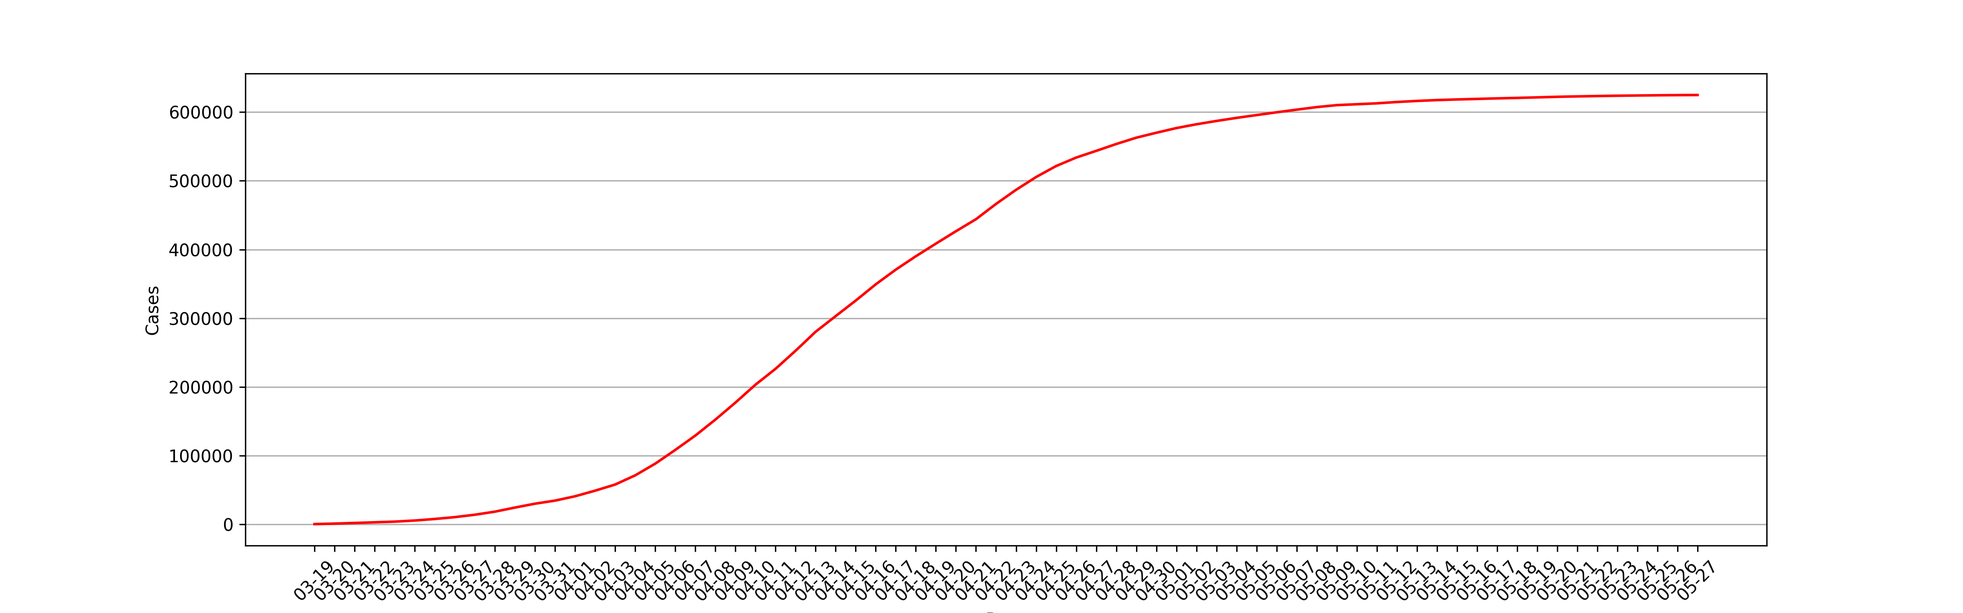
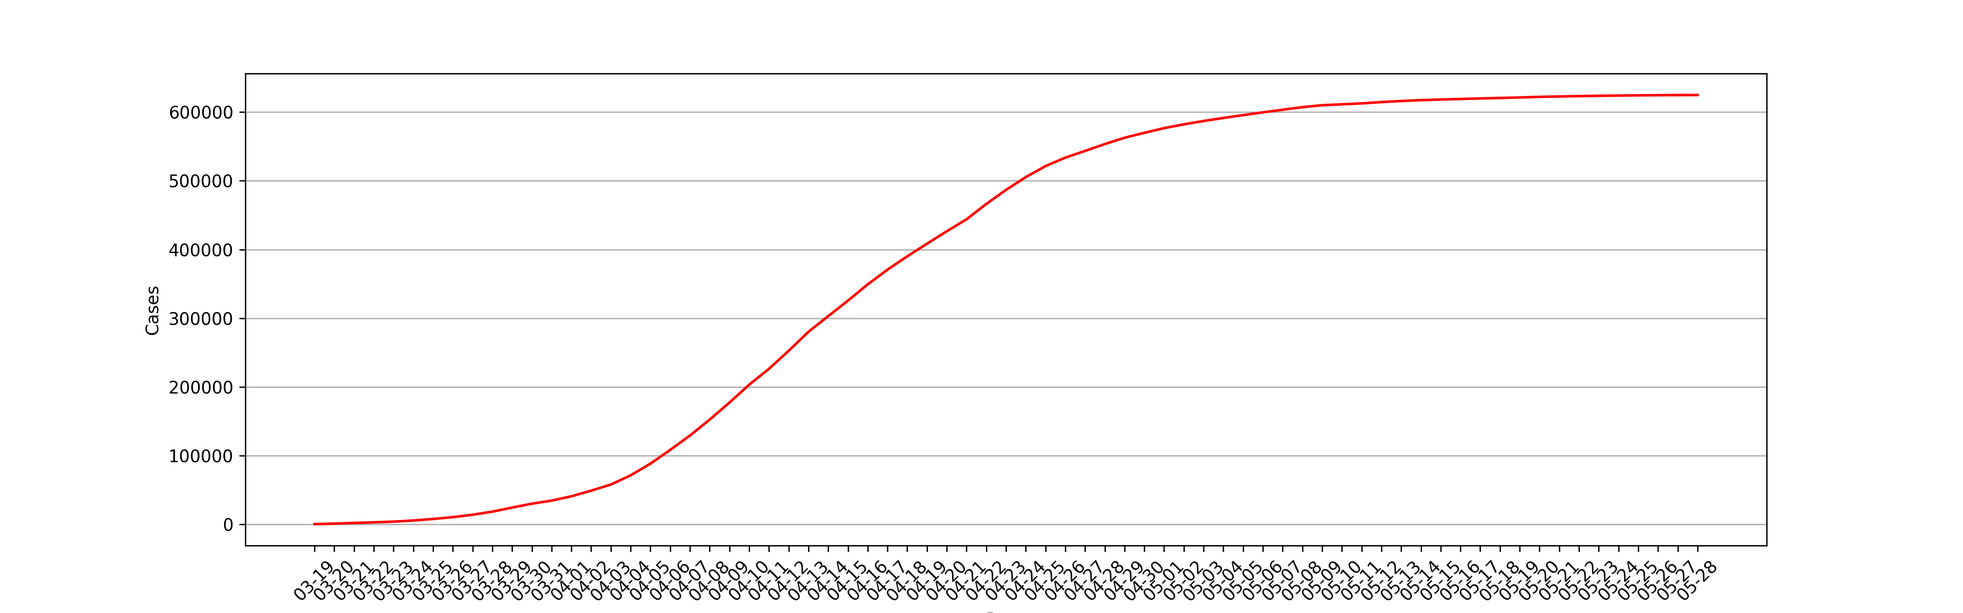
Commit by github action

diff --git a/archived_html/b744fb8257a08314cf1bda528345cac7.html b/archived_html/b744fb8257a08314cf1bda528345cac7.html
@@ -1,0 +1,151 @@
+<!DOCTYPE html>
+<html lang="zh-Hans">
+<head>
+    <meta charset="utf-8">
+    <meta http-equiv="Content-Security-Policy" content="upgrade-insecure-requests">
+    <meta name="viewport" content="width=device-width, initial-scale=1, maximum-scale=1, user-scalable=no">
+    <meta http-equiv="X-UA-Compatible" content="IE=Edge,chrome=1">
+    <meta http-equiv="Cache-Control" content="no-siteapp" />
+    <meta name="renderer" content="webkit">
+    <meta name="apple-mobile-web-app-capable" content="yes" />
+    <meta name="apple-mobile-web-app-status-bar-style" content="black" />
+    <title>上海2022年5月28日，新增本土新冠肺炎确诊病例29例 新增本土无症状感染者93例 新增境外输入性新冠肺炎确诊病例3例 新增境外输入性无症状感染者3例__上海市卫生健康委员会</title>
+    <meta name="ColumnDescription" content="新闻发布"><!-- * -->
+    <meta name="ColumnKeywords" content="新闻发布"><!-- * -->
+    <!--<meta name="ColumnType" content=""> * -->
+    <meta name="ColumnName" content="新闻发布"><!-- * -->
+    <meta name="ArticleTitle" content="上海2022年5月28日，新增本土新冠肺炎确诊病例29例 新增本土无症状感染者93例 新增境外输入性新冠肺炎确诊病例3例 新增境外输入性无症状感染者3例"><!-- * -->
+    <meta name="PubDate" content="2022-05-29"><!-- * -->
+    <meta name="ContentSource" content="上海市卫生健康委员会"><!-- * -->
+    <meta name="Author" content="上海市卫生健康委员会">
+    <meta name="Description" content="" />
+    <meta name="applicable-device" content="pc;mobile">
+    <meta name="location" content="北纬N31°11′51.89″ 东经E121°30′5.42″">
+    <!-- min CSS -->
+    <link rel="stylesheet" href="/assets/css/ETUI/ETUI3.min.css">
+    <!-- Custom CSS -->
+    <link rel="stylesheet" href="/assets/plugin/owl/owl.carousel.css">
+    <link rel="stylesheet" href="/assets/css/style.css">
+    <link rel="stylesheet" href="/assets/css/responsive.css">
+    <link rel="stylesheet" href="/assets/css/ETUI/ETUI3.Utility.css">
+    <!-- icons -->
+    <link rel="shortcut icon" href="/assets/img/ico/favicon.png">
+    <!-- 无障碍工具条 -->
+   <!-- <link rel="stylesheet" href="http://www.shanghai.gov.cn/jhelper_V2.0/jhelper_tool_style.css">
+    <script src="http://www.shanghai.gov.cn/jhelper_V2.0/wsj/jhelper_config.js" charset="gb2312"></script>
+    <noscript>不能读取工具条配置</noscript>
+    <script src="http://www.shanghai.gov.cn/jhelper_V2.0/jhelper_2.0.js" charset="gb2312"></script>
+    <noscript>不能读取工具条</noscript> 
+     -->
+    <script type="text/javascript">
+        function onsubmmit(pageIndex){
+            $("#pageIndex").val(1);
+            $("#searchField").val("0");
+            $("#timeScope").val("0");
+            $("#cmsSearchId").val("0");
+            $("#searchForm").submit();
+        }
+        function onselsubmmit(){
+            $("#pageIndex").val(1);
+            $("#searchForm").submit();
+        }
+        function psubmmit(pageIndex){
+            $("#pageIndex").val(pageIndex);
+            $("#searchForm").submit();
+        }
+        // 栏目
+        function chsubmmit(searchChId){
+            $("#pageIndex").val(1);
+            $("#searchField").val("0");
+            $("#timeScope").val("0");
+            $("#cmsSearchId").val(searchChId);
+            $("#searchForm").submit();
+        }
+    </script> 
+    <!-- 无障碍工具条 -->
+</head>
+<body>
+    <div id="accessNull"></div>
+    <div id="container">
+        <div class="channelinfo hidden"></div>
+        <script src="/assets/js/header.js"></script>
+        <div class="main" id="main">
+            <script src="/assets/js/jiansuo.js"></script>
+            <div class="main-container margin-top-15">
+                <div class="container ">
+                    <div class="relitive">
+                        <ol class="breadcrumb">
+                           <span>您现在所在的位置：</span>
+                            <li><a href="/index.html">首页</a></li>
+                            <li class="active">新闻中心</li>
+                           
+                            <li class="active">新闻发布</li>
+                           
+                        </ol>
+                        <div class="date-se">
+                            <i class="iconfont">&#xe60b;</i> <span id="time"></span>
+                        </div>
+                    </div>
+
+                    <div class="Article">
+                        <h2 id="ivs_title" class="Article-title">上海2022年5月28日，新增本土新冠肺炎确诊病例29例 新增本土无症状感染者93例 新增境外输入性新冠肺炎确诊病例3例 新增境外输入性无症状感染者3例</br>
+                         <h2 class="Article-title">
+                            <small id="ivs_date" class="Article-time">( 2022-05-29)</small>
+                        </h2>
+                        <div id="ivs_player" style="text-align:center;"></div>
+                        <div id="ivs_content" class="Article_content">
+                           
+                                 <p style="font-size: medium;white-space: normal;margin-top: 10px;text-indent: 40px"><span style="font-size: 20px;font-family: 仿宋_GB2312">市卫健委今早（29日）通报：2022年5月28日0—24时，新增本土新冠肺炎确诊病例29例和无症状感染者93例，其中18例确诊病例为既往无症状感染者转归，10例确诊病例和93例无症状感染者在隔离管控中发现。新增境外输入性新冠肺炎确诊病例3例和无症状感染者3例，均在闭环管控中发现。</span></p><p style="font-size: medium;white-space: normal;margin-top: 10px;text-indent: 40px"><span style="font-size: 20px;font-family: 仿宋_GB2312">2022</span><span style="font-size: 20px;font-family: 仿宋_GB2312">年5月28日0—24时，新增本土新冠肺炎确诊病例29例，含18例由既往无症状感染者转为确诊病例。新增治愈出院114例。</span></p><p style="font-size: medium;white-space: normal;margin-top: 10px;text-indent: 40px"><strong><span style="font-size: 20px;font-family: 黑体">病例1</span></strong><span style="font-size: 20px;font-family: 仿宋_GB2312">，居住于徐汇区，</span><strong><span style="font-size: 20px;font-family: 黑体">病例2</span></strong><span style="font-size: 20px;font-family: 仿宋_GB2312">，居住于长宁区，</span><strong><span style="font-size: 20px;font-family: 黑体">病例3</span></strong><span style="font-size: 20px;font-family: 仿宋_GB2312">，居住于静安区，</span><strong><span style="font-size: 20px;font-family: 黑体">病例4、病例5</span></strong><span style="font-size: 20px;font-family: 仿宋_GB2312">，居住于虹口区，</span><strong><span style="font-size: 20px;font-family: 黑体">病例6—病例10</span></strong><span style="font-size: 20px;font-family: 仿宋_GB2312">，居住于宝山区，均为本市闭环隔离管控人员，其间新冠病毒核酸检测结果异常，经疾控中心复核结果为阳性。经市级专家会诊，综合流行病学史、临床症状、实验室检测和影像学检查结果等，诊断为确诊病例。</span></p><p style="font-size: medium;white-space: normal;margin-top: 10px;text-indent: 40px"><strong><span style="font-size: 20px;font-family: 黑体">病例11</span></strong><span style="font-size: 20px;font-family: 仿宋_GB2312">，居住于浦东新区，</span><span style="font-size: 20px;font-family: 仿宋_GB2312">在风险人群筛查中发现新冠病毒核酸检测结果异常，即被隔离管控。经疾控中心复核结果为阳性。经市级专家会诊，综合流行病学史、临床症状、实验室检测和影像学检查结果等，诊断为确诊病例。</span></p><p style="font-size: medium;white-space: normal;margin-top: 10px;text-indent: 40px"><strong><span style="font-size: 20px;font-family: 黑体">病例12—病例14</span></strong><span style="font-size: 20px;font-family: 仿宋_GB2312">，居住于黄浦区，</span><strong><span style="font-size: 20px;font-family: 黑体">病例15</span></strong><span style="font-size: 20px;font-family: 仿宋_GB2312">，居住于徐汇区，</span><strong><span style="font-size: 20px;font-family: 黑体">病例16</span></strong><span style="font-size: 20px;font-family: 仿宋_GB2312">，居住于长宁区，</span><strong><span style="font-size: 20px;font-family: 黑体">病例17</span></strong><span style="font-size: 20px;font-family: 仿宋_GB2312">，居住于静安区，</span><strong><span style="font-size: 20px;font-family: 黑体">病例18</span></strong><span style="font-size: 20px;font-family: 仿宋_GB2312">，居住于虹口区，</span><strong><span style="font-size: 20px;font-family: 黑体">病例19—病例26</span></strong><span style="font-size: 20px;font-family: 仿宋_GB2312">，居住于杨浦区，</span><strong><span style="font-size: 20px;font-family: 黑体">病例27、病例28</span></strong><span style="font-size: 20px;font-family: 仿宋_GB2312">，居住于闵行区，</span><strong><span style="font-size: 20px;font-family: 黑体">病例29</span></strong><span style="font-size: 20px;font-family: 仿宋_GB2312">，居住于宝山区，为此前报告的本土无症状感染者。</span><span style="font-size: 20px;font-family: 仿宋_GB2312">经市级专家会诊，综合流行病学史、临床症状、实验室检测和影像学检查结果等，诊断为确诊病例。</span></p><p style="font-size: medium;white-space: normal;margin-top: 10px;text-indent: 40px"><span style="font-size: 20px;font-family: 仿宋_GB2312">2022</span><span style="font-size: 20px;font-family: 仿宋_GB2312">年5月28日0—24时，新增本土无症状感染者93例。</span></p><p style="font-size: medium;white-space: normal;text-indent: 40px"><strong><span style="font-size: 20px;font-family: 黑体">无症状感染者1—无症状感染者17</span></strong><span style="font-size: 20px;font-family: 仿宋_GB2312">，居住于浦东新区，</span><strong><span style="font-size: 20px;font-family: 黑体">无症状感染者18—无症状感染者21</span></strong><span style="font-size: 20px;font-family: 仿宋_GB2312">，居住于黄浦区，</span><strong><span style="font-size: 20px;font-family: 黑体">无症状感染者22—无症状感染者29</span></strong><span style="font-size: 20px;font-family: 仿宋_GB2312">，居住于徐汇区，</span><strong><span style="font-size: 20px;font-family: 黑体">无症状感染者30—无症状感染者35</span></strong><span style="font-size: 20px;font-family: 仿宋_GB2312">，居住于长宁区，</span><strong><span style="font-size: 20px;font-family: 黑体">无症状感染者36—无症状感染者45</span></strong><span style="font-size: 20px;font-family: 仿宋_GB2312">，居住于静安区，</span><strong><span style="font-size: 20px;font-family: 黑体">无症状感染者46—无症状感染者56</span></strong><span style="font-size: 20px;font-family: 仿宋_GB2312">，居住于虹口区，</span><strong><span style="font-size: 20px;font-family: 黑体">无症状感染者57—无症状感染者80</span></strong><span style="font-size: 20px;font-family: 仿宋_GB2312">，居住于杨浦区，</span><strong><span style="font-size: 20px;font-family: 黑体">无症状感染者81—无症状感染者86</span></strong><span style="font-size: 20px;font-family: 仿宋_GB2312">，居住于闵行区，</span><strong><span style="font-size: 20px;font-family: 黑体">无症状感染者87—无症状感染者91</span></strong><span style="font-size: 20px;font-family: 仿宋_GB2312">，居住于宝山区，</span><strong><span style="font-size: 20px;font-family: 黑体">无症状感染者92、无症状感染者93</span></strong><span style="font-size: 20px;font-family: 仿宋_GB2312">，居住于青浦区，</span><span style="font-size: 20px;font-family: 仿宋_GB2312">均为本市闭环隔离管控人员，其间新冠病毒核酸检测结果</span><span style="font-size: 20px;font-family: 仿宋_GB2312">异常，经疾控中心复核结果为阳性，诊断为无症状感染者。</span></p><p style="font-size: medium;white-space: normal;text-indent: 40px"><span style="font-size: 20px;font-family: 仿宋_GB2312">2022</span><span style="font-size: 20px;font-family: 仿宋_GB2312">年5月28日0—24时，</span><span style="font-size: 20px;font-family: 仿宋_GB2312">通过口岸联防联控机制，报告3例新增境外输入性新冠肺炎确诊病例。</span></p><p style="font-size: medium;white-space: normal;text-indent: 40px"><strong><span style="font-size: 20px;font-family: 黑体">病例1</span></strong><span style="font-size: 20px;font-family: 仿宋_GB2312">为中国籍，在美国留学，自美国出发，于2022年5月26日抵达上海浦东国际机场，入关后即被集中隔离观察，其间出现症状。综合流行病学史、临床症状、实验室检测和影像学检查结果等，诊断为确诊病例。</span></p><p style="font-size: medium;white-space: normal;text-indent: 40px"><strong><span style="font-size: 20px;font-family: 黑体">病例2</span></strong><span style="font-size: 20px;font-family: 仿宋_GB2312">为台湾居民，在台湾地区探亲，自台湾地区出发，于2022年5月26日抵达上海浦东国际机场，入关后即被集中隔离观察，其间出现症状。综合流行病学史、临床症状、实验室检测和影像学检查结果等，诊断为确诊病例。</span></p><p style="font-size: medium;white-space: normal;text-indent: 40px"><strong><span style="font-size: 20px;font-family: 黑体">病例3</span></strong><span style="font-size: 20px;font-family: 仿宋_GB2312">为加拿大籍，在加拿大生活，自加拿大出发，于2022年5月27日抵达上海浦东国际机场，入关后即被集中隔离观察，其间出现症状。综合流行病学史、临床症状、实验室检测和影像学检查结果等，诊断为确诊病例。</span></p><p style="font-size: medium;white-space: normal;text-indent: 40px"><span style="font-size: 20px;font-family: 仿宋_GB2312">3</span><span style="font-size: 20px;font-family: 仿宋_GB2312">例境外输入性确诊病例已转至定点医疗机构救治，已追踪同航班密切接触者25人，均已落实集中隔离观察。</span></p><p style="font-size: medium;white-space: normal;text-indent: 40px"><span style="font-size: 20px;font-family: 仿宋_GB2312">2022</span><span style="font-size: 20px;font-family: 仿宋_GB2312">年5月28日0—24时，新增境外输入性无症状感染者3例。</span></p><p style="font-size: medium;white-space: normal;text-indent: 40px"><strong><span style="font-size: 20px;font-family: 黑体">无症状感染者1</span></strong><span style="font-size: 20px;font-family: 仿宋_GB2312">为中国籍，在美国留学，自美国出发，于2022年5月26日抵达上海浦东国际机场，入关后即被集中隔离观察，其间例行核酸检测异常。经排查，区疾控中心新冠病毒核酸检测结果为阳性。综合流行病学史、临床症状、实验室检测和影像学检查结果等，诊断为无症状感染者。</span></p><p style="font-size: medium;white-space: normal;text-indent: 40px"><strong><span style="font-size: 20px;font-family: 黑体">无症状感染者2、无症状感染者3</span></strong><span style="font-size: 20px;font-family: 仿宋_GB2312">均为中国籍，系母女关系，在加拿大生活，自加拿大出发，乘坐同一航班，于2022年5月27日抵达上海浦东国际机场，入关后即被集中隔离观察，其间例行核酸检测异常。经排查，区疾控中心新冠病毒核酸检测结果为阳性。综合流行病学史、临床症状、实验室检测和影像学检查结果等，诊断为无症状感染者。</span></p><p style="font-size: medium;white-space: normal;text-indent: 40px"><span style="font-size: 20px;font-family: 仿宋_GB2312">3</span><span style="font-size: 20px;font-family: 仿宋_GB2312">例境外输入性无症状感染者已转至定点医疗机构医学观察，已追踪同航班密切接触者39人，均已落实集中隔离观察。</span></p><p style="font-size: medium;white-space: normal;text-indent: 40px"><span style="font-size: 20px;font-family: 仿宋_GB2312">2022</span><span style="font-size: 20px;font-family: 仿宋_GB2312">年5月28日0—24时，解除医学观察无症状感染者1327例，其中本土无症状感染者1324例，境外输入性无症状感染者3例。</span></p><p style="font-size: medium;white-space: normal;margin-top: 10px;text-indent: 40px;vertical-align: baseline"><span style="font-size: 20px;font-family: 仿宋_GB2312">2022</span><span style="font-size: 20px;font-family: 仿宋_GB2312">年2月26日0时至2022年5月28日24时，累计本土确诊57980例，治愈出院55790例，在院治疗1602例（其中重型96例，危重型29例），死亡588。现有待排查的疑似病例0例。</span></p><p style="font-size: medium;white-space: normal;margin-top: 10px;text-indent: 40px;vertical-align: baseline"><span style="font-size: 20px;font-family: 仿宋_GB2312">截至2022年5月28日24时，累计境外输入性确诊病例4610例，出院4600例，在院治疗10例。现有待排查的疑似病例3例。</span></p><p style="font-size: medium;white-space: normal;margin-top: 10px;text-indent: 40px;vertical-align: baseline"><span style="font-size: 20px;font-family: 仿宋_GB2312">&nbsp;</span></p><table align="center" cellspacing="0" cellpadding="0" width="544"><tbody><tr style="height: 24px" class="firstRow"><td width="379" colspan="2" style="border-width: 1px; border-color: windowtext; padding: 0px 7px; border-style: solid;" height="24"><p style="text-align: center;vertical-align: baseline"><strong><span style="font-size: 19px;font-family: 仿宋_GB2312">区域</span></strong></p></td><td width="165" style="border-width: 1px; border-top-color: windowtext; border-right-color: windowtext; border-bottom-color: windowtext; border-style: solid; border-left-color: initial; padding: 0px 7px;" height="24"><p style="text-align: center;vertical-align: baseline"><strong><span style="font-size: 19px;font-family: 仿宋_GB2312">在院治疗确诊病例</span></strong></p></td></tr><tr style="height: 42px"><td width="213" rowspan="6" style="border-width: 1px; border-right-color: windowtext; border-bottom-color: windowtext; border-left-color: windowtext; border-style: solid; border-top-color: initial; padding: 0px 7px;" height="42"><p style="text-align: center;vertical-align: baseline"><span style="font-size: 19px;font-family: 仿宋_GB2312">境外输入人员</span></p><p style="text-align: center;vertical-align: baseline"><span style="font-size: 19px;font-family: 仿宋_GB2312">（按输入地分）</span></p></td><td width="165" valign="top" style="border-width: 1px; border-style: solid; border-top-color: initial; border-left-color: initial; border-bottom-color: windowtext; border-right-color: windowtext; padding: 0px 7px;" height="42"><p style="text-align: center;vertical-align: middle"><span style="font-size: 19px;font-family: 仿宋_GB2312">美国</span></p></td><td width="165" valign="top" style="border-width: 1px; border-style: solid; border-top-color: initial; border-left-color: initial; border-bottom-color: windowtext; border-right-color: windowtext; padding: 0px 7px;" height="42"><p style="text-align: center;vertical-align: middle"><span style="font-size: 19px;font-family: 仿宋_GB2312">4</span></p></td></tr><tr style="height: 42px"><td width="165" valign="top" style="border-width: 1px; border-style: solid; border-top-color: initial; border-left-color: initial; border-bottom-color: windowtext; border-right-color: windowtext; padding: 0px 7px;" height="42"><p style="text-align: center;vertical-align: middle"><span style="font-size: 19px;font-family: 仿宋_GB2312">加拿大</span></p></td><td width="165" valign="top" style="border-width: 1px; border-style: solid; border-top-color: initial; border-left-color: initial; border-bottom-color: windowtext; border-right-color: windowtext; padding: 0px 7px;" height="42"><p style="text-align: center;vertical-align: middle"><span style="font-size: 19px;font-family: 仿宋_GB2312">2</span></p></td></tr><tr style="height: 42px"><td width="165" valign="top" style="border-width: 1px; border-style: solid; border-top-color: initial; border-left-color: initial; border-bottom-color: windowtext; border-right-color: windowtext; padding: 0px 7px;" height="42"><p style="text-align: center;vertical-align: middle"><span style="font-size: 19px;font-family: 仿宋_GB2312">新加坡</span></p></td><td width="165" valign="top" style="border-width: 1px; border-style: solid; border-top-color: initial; border-left-color: initial; border-bottom-color: windowtext; border-right-color: windowtext; padding: 0px 7px;" height="42"><p style="text-align: center;vertical-align: middle"><span style="font-size: 19px;font-family: 仿宋_GB2312">1</span></p></td></tr><tr style="height: 42px"><td width="165" valign="top" style="border-width: 1px; border-style: solid; border-top-color: initial; border-left-color: initial; border-bottom-color: windowtext; border-right-color: windowtext; padding: 0px 7px;" height="42"><p style="text-align: center;vertical-align: middle"><span style="font-size: 19px;font-family: 仿宋_GB2312">刚果（金）</span></p></td><td width="165" valign="top" style="border-width: 1px; border-style: solid; border-top-color: initial; border-left-color: initial; border-bottom-color: windowtext; border-right-color: windowtext; padding: 0px 7px;" height="42"><p style="text-align: center;vertical-align: middle"><span style="font-size: 19px;font-family: 仿宋_GB2312">1</span></p></td></tr><tr style="height: 42px"><td width="165" valign="top" style="border-width: 1px; border-style: solid; border-top-color: initial; border-left-color: initial; border-bottom-color: windowtext; border-right-color: windowtext; padding: 0px 7px;" height="42"><p style="text-align: center;vertical-align: middle"><span style="font-size: 19px;font-family: 仿宋_GB2312">蒙古</span></p></td><td width="165" valign="top" style="border-width: 1px; border-style: solid; border-top-color: initial; border-left-color: initial; border-bottom-color: windowtext; border-right-color: windowtext; padding: 0px 7px;" height="42"><p style="text-align: center;vertical-align: middle"><span style="font-size: 19px;font-family: 仿宋_GB2312">1</span></p></td></tr><tr style="height: 42px"><td width="165" valign="top" style="border-width: 1px; border-style: solid; border-top-color: initial; border-left-color: initial; border-bottom-color: windowtext; border-right-color: windowtext; padding: 0px 7px;" height="42"><p style="text-align: center;vertical-align: middle"><span style="font-size: 19px;font-family: 仿宋_GB2312">台湾地区</span></p></td><td width="165" valign="top" style="border-width: 1px; border-style: solid; border-top-color: initial; border-left-color: initial; border-bottom-color: windowtext; border-right-color: windowtext; padding: 0px 7px;" height="42"><p style="text-align: center;vertical-align: middle"><span style="font-size: 19px;font-family: 仿宋_GB2312">1</span></p></td></tr><tr style="height: 33px"><td width="213" rowspan="16" style="border-width: 1px; border-right-color: windowtext; border-bottom-color: windowtext; border-left-color: windowtext; border-style: solid; border-top-color: initial; padding: 0px 7px;" height="33"><p style="text-indent: 19px;vertical-align: baseline"><span style="font-size: 19px;font-family: 仿宋_GB2312">本市居住或工作地</span></p></td><td width="165" style="border-width: 1px; border-style: solid; border-top-color: initial; border-left-color: initial; border-bottom-color: windowtext; border-right-color: windowtext; padding: 0px 7px;" height="33"><p style="text-align: center;vertical-align: middle"><span style="font-size: 19px;font-family: 仿宋_GB2312">浦东</span></p></td><td width="165" style="border-width: 1px; border-style: solid; border-top-color: initial; border-left-color: initial; border-bottom-color: windowtext; border-right-color: windowtext; padding: 0px 7px;" height="33"><p style="text-align: center"><span style="font-size: 19px;font-family: 仿宋_GB2312">67</span></p></td></tr><tr style="height: 33px"><td width="165" style="border-width: 1px; border-style: solid; border-top-color: initial; border-left-color: initial; border-bottom-color: windowtext; border-right-color: windowtext; padding: 0px 7px;" height="33"><p style="text-align: center;vertical-align: middle"><span style="font-size: 19px;font-family: 仿宋_GB2312">黄浦</span></p></td><td width="165" style="border-width: 1px; border-style: solid; border-top-color: initial; border-left-color: initial; border-bottom-color: windowtext; border-right-color: windowtext; padding: 0px 7px;" height="33"><p style="text-align: center"><span style="font-size: 19px;font-family: 仿宋_GB2312">210</span></p></td></tr><tr style="height: 33px"><td width="165" style="border-width: 1px; border-style: solid; border-top-color: initial; border-left-color: initial; border-bottom-color: windowtext; border-right-color: windowtext; padding: 0px 7px;" height="33"><p style="text-align: center;vertical-align: middle"><span style="font-size: 19px;font-family: 仿宋_GB2312">徐汇</span></p></td><td width="165" style="border-width: 1px; border-style: solid; border-top-color: initial; border-left-color: initial; border-bottom-color: windowtext; border-right-color: windowtext; padding: 0px 7px;" height="33"><p style="text-align: center"><span style="font-size: 19px;font-family: 仿宋_GB2312">245</span></p></td></tr><tr style="height: 33px"><td width="165" style="border-width: 1px; border-style: solid; border-top-color: initial; border-left-color: initial; border-bottom-color: windowtext; border-right-color: windowtext; padding: 0px 7px;" height="33"><p style="text-align: center;vertical-align: middle"><span style="font-size: 19px;font-family: 仿宋_GB2312">长宁</span></p></td><td width="165" style="border-width: 1px; border-style: solid; border-top-color: initial; border-left-color: initial; border-bottom-color: windowtext; border-right-color: windowtext; padding: 0px 7px;" height="33"><p style="text-align: center"><span style="font-size: 19px;font-family: 仿宋_GB2312">93</span></p></td></tr><tr style="height: 33px"><td width="165" style="border-width: 1px; border-style: solid; border-top-color: initial; border-left-color: initial; border-bottom-color: windowtext; border-right-color: windowtext; padding: 0px 7px;" height="33"><p style="text-align: center;vertical-align: middle"><span style="font-size: 19px;font-family: 仿宋_GB2312">静安</span></p></td><td width="165" style="border-width: 1px; border-style: solid; border-top-color: initial; border-left-color: initial; border-bottom-color: windowtext; border-right-color: windowtext; padding: 0px 7px;" height="33"><p style="text-align: center"><span style="font-size: 19px;font-family: 仿宋_GB2312">249</span></p></td></tr><tr style="height: 33px"><td width="165" style="border-width: 1px; border-style: solid; border-top-color: initial; border-left-color: initial; border-bottom-color: windowtext; border-right-color: windowtext; padding: 0px 7px;" height="33"><p style="text-align: center;vertical-align: middle"><span style="font-size: 19px;font-family: 仿宋_GB2312">普陀</span></p></td><td width="165" style="border-width: 1px; border-style: solid; border-top-color: initial; border-left-color: initial; border-bottom-color: windowtext; border-right-color: windowtext; padding: 0px 7px;" height="33"><p style="text-align: center"><span style="font-size: 19px;font-family: 仿宋_GB2312">102</span></p></td></tr><tr style="height: 33px"><td width="165" style="border-width: 1px; border-style: solid; border-top-color: initial; border-left-color: initial; border-bottom-color: windowtext; border-right-color: windowtext; padding: 0px 7px;" height="33"><p style="text-align: center;vertical-align: middle"><span style="font-size: 19px;font-family: 仿宋_GB2312">虹口</span></p></td><td width="165" style="border-width: 1px; border-style: solid; border-top-color: initial; border-left-color: initial; border-bottom-color: windowtext; border-right-color: windowtext; padding: 0px 7px;" height="33"><p style="text-align: center"><span style="font-size: 19px;font-family: 仿宋_GB2312">220</span></p></td></tr><tr style="height: 33px"><td width="165" style="border-width: 1px; border-style: solid; border-top-color: initial; border-left-color: initial; border-bottom-color: windowtext; border-right-color: windowtext; padding: 0px 7px;" height="33"><p style="text-align: center;vertical-align: middle"><span style="font-size: 19px;font-family: 仿宋_GB2312">杨浦</span></p></td><td width="165" style="border-width: 1px; border-style: solid; border-top-color: initial; border-left-color: initial; border-bottom-color: windowtext; border-right-color: windowtext; padding: 0px 7px;" height="33"><p style="text-align: center"><span style="font-size: 19px;font-family: 仿宋_GB2312">371</span></p></td></tr><tr style="height: 33px"><td width="165" style="border-width: 1px; border-style: solid; border-top-color: initial; border-left-color: initial; border-bottom-color: windowtext; border-right-color: windowtext; padding: 0px 7px;" height="33"><p style="text-align: center;vertical-align: middle"><span style="font-size: 19px;font-family: 仿宋_GB2312">闵行</span></p></td><td width="165" style="border-width: 1px; border-style: solid; border-top-color: initial; border-left-color: initial; border-bottom-color: windowtext; border-right-color: windowtext; padding: 0px 7px;" height="33"><p style="text-align: center"><span style="font-size: 19px;font-family: 仿宋_GB2312">12</span></p></td></tr><tr style="height: 33px"><td width="165" style="border-width: 1px; border-style: solid; border-top-color: initial; border-left-color: initial; border-bottom-color: windowtext; border-right-color: windowtext; padding: 0px 7px;" height="33"><p style="text-align: center;vertical-align: middle"><span style="font-size: 19px;font-family: 仿宋_GB2312">宝山</span></p></td><td width="165" style="border-width: 1px; border-style: solid; border-top-color: initial; border-left-color: initial; border-bottom-color: windowtext; border-right-color: windowtext; padding: 0px 7px;" height="33"><p style="text-align: center"><span style="font-size: 19px;font-family: 仿宋_GB2312">20</span></p></td></tr><tr style="height: 33px"><td width="165" style="border-width: 1px; border-style: solid; border-top-color: initial; border-left-color: initial; border-bottom-color: windowtext; border-right-color: windowtext; padding: 0px 7px;" height="33"><p style="text-align: center;vertical-align: middle"><span style="font-size: 19px;font-family: 仿宋_GB2312">嘉定</span></p></td><td width="165" style="border-width: 1px; border-style: solid; border-top-color: initial; border-left-color: initial; border-bottom-color: windowtext; border-right-color: windowtext; padding: 0px 7px;" height="33"><p style="text-align: center"><span style="font-size: 19px;font-family: 仿宋_GB2312">3</span></p></td></tr><tr style="height: 33px"><td width="165" style="border-width: 1px; border-style: solid; border-top-color: initial; border-left-color: initial; border-bottom-color: windowtext; border-right-color: windowtext; padding: 0px 7px;" height="33"><p style="text-align: center;vertical-align: middle"><span style="font-size: 19px;font-family: 仿宋_GB2312">金山</span></p></td><td width="165" style="border-width: 1px; border-style: solid; border-top-color: initial; border-left-color: initial; border-bottom-color: windowtext; border-right-color: windowtext; padding: 0px 7px;" height="33"><p style="text-align: center"><span style="font-size: 19px;font-family: 仿宋_GB2312">1</span></p></td></tr><tr style="height: 33px"><td width="165" style="border-width: 1px; border-style: solid; border-top-color: initial; border-left-color: initial; border-bottom-color: windowtext; border-right-color: windowtext; padding: 0px 7px;" height="33"><p style="text-align: center;vertical-align: middle"><span style="font-size: 19px;font-family: 仿宋_GB2312">松江</span></p></td><td width="165" style="border-width: 1px; border-style: solid; border-top-color: initial; border-left-color: initial; border-bottom-color: windowtext; border-right-color: windowtext; padding: 0px 7px;" height="33"><p style="text-align: center"><span style="font-size: 19px;font-family: 仿宋_GB2312">5</span></p></td></tr><tr style="height: 33px"><td width="165" style="border-width: 1px; border-style: solid; border-top-color: initial; border-left-color: initial; border-bottom-color: windowtext; border-right-color: windowtext; padding: 0px 7px;" height="33"><p style="text-align: center;vertical-align: middle"><span style="font-size: 19px;font-family: 仿宋_GB2312">青浦</span></p></td><td width="165" style="border-width: 1px; border-style: solid; border-top-color: initial; border-left-color: initial; border-bottom-color: windowtext; border-right-color: windowtext; padding: 0px 7px;" height="33"><p style="text-align: center"><span style="font-size: 19px;font-family: 仿宋_GB2312">1</span></p></td></tr><tr style="height: 33px"><td width="165" style="border-width: 1px; border-style: solid; border-top-color: initial; border-left-color: initial; border-bottom-color: windowtext; border-right-color: windowtext; padding: 0px 7px;" height="33"><p style="text-align: center;vertical-align: middle"><span style="font-size: 19px;font-family: 仿宋_GB2312">奉贤</span></p></td><td width="165" style="border-width: 1px; border-style: solid; border-top-color: initial; border-left-color: initial; border-bottom-color: windowtext; border-right-color: windowtext; padding: 0px 7px;" height="33"><p style="text-align: center"><span style="font-size: 19px;font-family: 仿宋_GB2312">2</span></p></td></tr><tr style="height: 33px"><td width="165" style="border-width: 1px; border-style: solid; border-top-color: initial; border-left-color: initial; border-bottom-color: windowtext; border-right-color: windowtext; padding: 0px 7px;" height="33"><p style="text-align: center;vertical-align: middle"><span style="font-size: 19px;font-family: 仿宋_GB2312">崇明</span></p></td><td width="165" style="border-width: 1px; border-style: solid; border-top-color: initial; border-left-color: initial; border-bottom-color: windowtext; border-right-color: windowtext; padding: 0px 7px;" height="33"><p style="text-align: center"><span style="font-size: 19px;font-family: 仿宋_GB2312">1</span></p></td></tr><tr style="height: 33px"><td width="379" colspan="2" style="border-width: 1px; border-right-color: windowtext; border-bottom-color: windowtext; border-left-color: windowtext; border-style: solid; border-top-color: initial; padding: 0px 7px;" height="33"><p style="text-align: center;vertical-align: baseline"><span style="font-size: 19px;font-family: 仿宋_GB2312">合计</span></p></td><td width="165" style="border-width: 1px; border-style: solid; border-top-color: initial; border-left-color: initial; border-bottom-color: windowtext; border-right-color: windowtext; padding: 0px 7px;" height="33"><p style="text-align: center;vertical-align: baseline"><span style="font-size: 19px;font-family: 仿宋_GB2312">1612</span></p></td></tr></tbody></table><p style="font-size: medium;white-space: normal;margin-top: 10px;text-indent: 43px;vertical-align: baseline"><span style="font-size: 21px;font-family: Calibri, sans-serif">&nbsp;</span></p><p style="font-size: medium;white-space: normal;margin-top: 10px;text-indent: 43px;vertical-align: baseline"><span style="font-size: 21px;font-family: Calibri, sans-serif">&nbsp;</span></p><p><br/></p>
+                        </div>
+                        </div>
+                    </div>
+                </div>
+            </div>
+        </div>
+        <script src="/assets/js/footer.js"></script>
+        </div>
+    <!--Main JS-->
+    <script src="/assets/js/ETUI/jquery.min.1.12.4.js"></script>
+    <!--[if lt IE 9]>
+    <script src="/assets/js/ETUI/html5shiv.min.js"></script>
+    <script src="/assets/js/ETUI/respond.min.js"></script>
+    <![endif]-->
+    <script src="/assets/js/ETUI/ETUI3.min.js"></script>
+    <script src="/assets/plugin/owl/owl.carousel.min.js"></script>
+    <!--Custom JS-->
+    <script src="/assets/js/main.js"></script>
+    <script src="/assets/js/language.js"></script>
+    <!-- <script src="/assets/js/Time.js"></script> -->
+    <!--
+  <script src="/assets/js/jhelper_config.js" charset="gb2312"></script>
+<script type="text/javascript" src="https://jhelper.shanghai.gov.cn/publicJS/3100000010.js"></script>
+-->
+<script src="https://wsjkw.sh.gov.cn/wza/jhelper_config.js" charset="gb2312"></script>
+    <script type="text/javascript" src="http://jhelper.shanghai.gov.cn/publicJS/3100000010.js"></script>
+   <!-- <script type="text/javascript" src="http://voice.ewdcloud.com.cn:9292/js/ew_msc.js"></script>-->
+    <script>
+        jQuery(document).ready(function () {
+            Main.init();
+        });
+        jQuery(document).ready(function () {
+	        getToolbarMod();
+        });
+    </script>
+    <script>
+        function currentTime(){
+            var d = new Date(),str = '';
+            str += d.getFullYear()+'年';
+            str  += d.getMonth() + 1+'月';
+            str  += d.getDate()+'日';
+            var a = new Array("日", "一", "二", "三", "四", "五", "六");
+            var week = new Date().getDay();
+            var tody = "星期"+ a[week];
+            str +=' ';
+            str  += tody ;
+            return str;
+
+        }
+        setInterval(function(){$('#time').html(currentTime)},1000);
+    </script>
+</body>
+</html>

diff --git a/README.md b/README.md
@@ -35,6 +35,7 @@ git clone --depeth=1 https://github.com/lewangdev/shanghai-lockdown-covid-19.git
 
 | Date/Details | New Cases(*)  | Deaths | Confirmed Cases | Asymptomatic Cases | A2C Cases(*) |
 | ---- | ---------- | ---------- | ---------------- | ----------------- | ---------------------------- |
+| 2022-05-28 | 104 | 0 | 29 | 93 | 18 |
 | 2022-05-27 | 152 | 0 | 39 | 131 | 18 |
 | 2022-05-26 | 231 | 1 | 45 | 219 | 33 |
 | 2022-05-25 | 307 | 1 | 48 | 290 | 31 |
@@ -115,6 +116,7 @@ git clone --depeth=1 https://github.com/lewangdev/shanghai-lockdown-covid-19.git
 
 | Date | Total Cases  | Total Deaths | Case‑Fatality-Rate |
 | ---- | ---------- | ---------- | ---------- |
+| 2022-05-28 | 624855 | 588 | 0.0941% |
 | 2022-05-27 | 624751 | 588 | 0.0941% |
 | 2022-05-26 | 624599 | 588 | 0.0941% |
 | 2022-05-25 | 624368 | 587 | 0.0940% |
